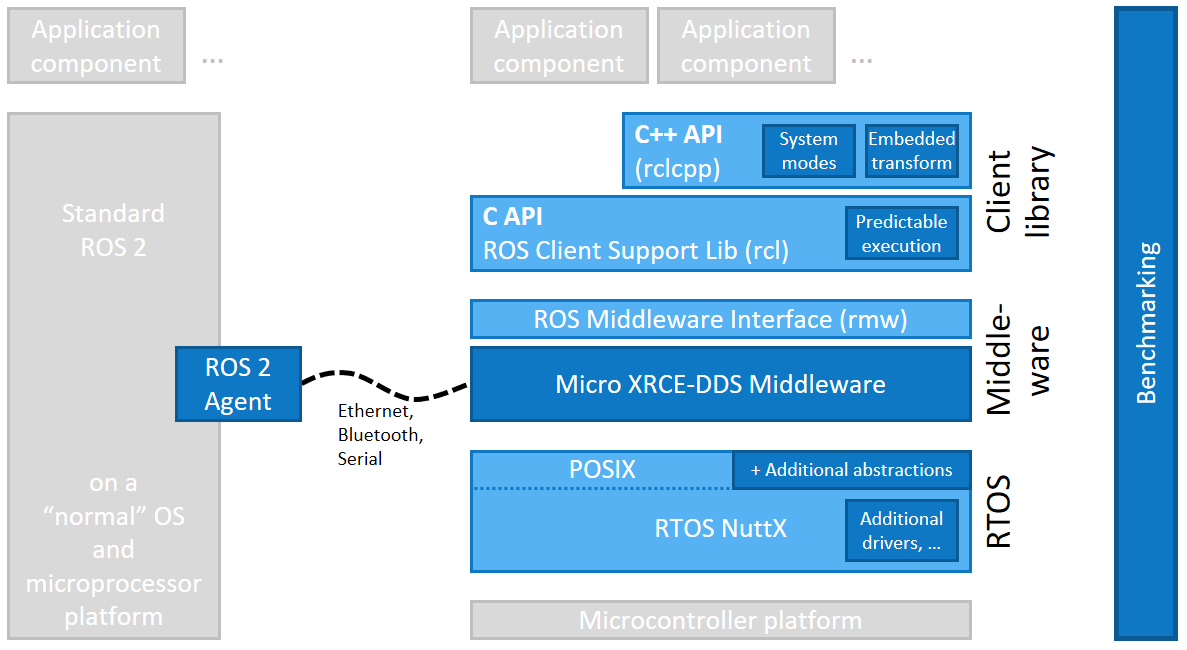
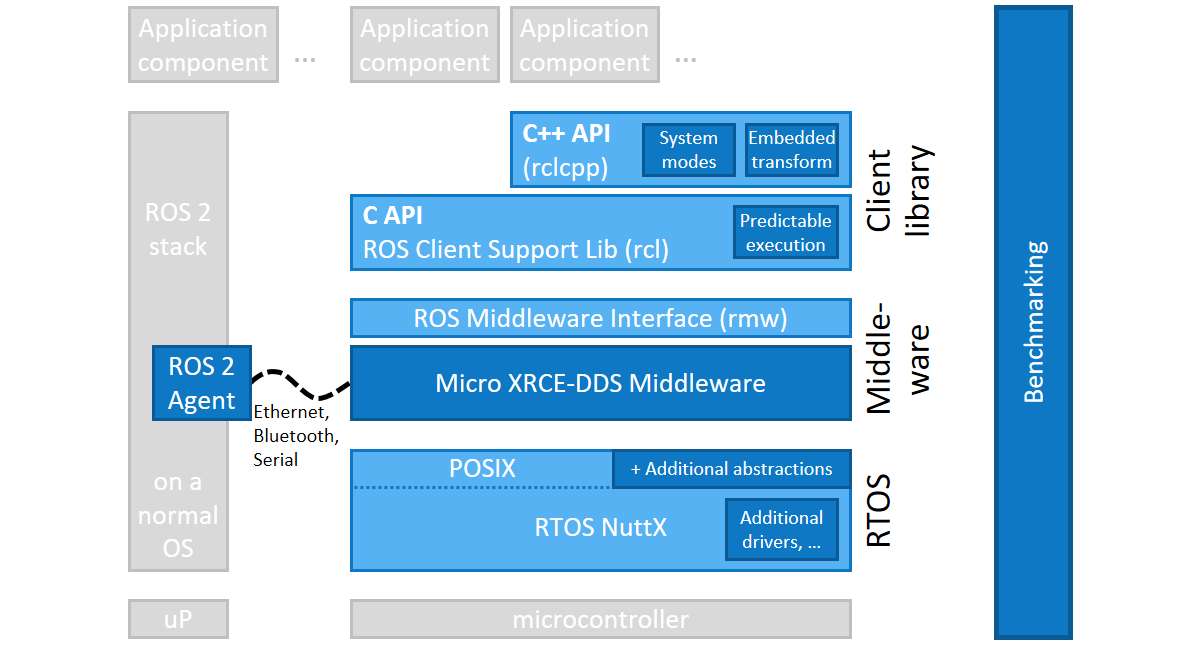
Centered stack in architecture image and improved text.

diff --git a/_docs/overview/index.md b/_docs/overview/index.md
@@ -6,13 +6,17 @@ redirect_from: /docs/
 
 *micro-ROS puts ROS 2 onto microcontrollers, making them first class participants of the ROS 2 environment.*
 
-We're basically following the [ROS 2 architecture](https://index.ros.org/doc/ros2/) and make use of its middleware pluggability to use [DDS-XRCE](https://www.omg.org/spec/DDS-XRCE/), which is suitable for microcontrollers. Moreover, we use an RTOS (NuttX) instead of Linux. We also add an RTOS abstraction layer, to make porting to other RTOS possible.
+We're basically following the [ROS 2 architecture](https://index.ros.org/doc/ros2/) and make use of its middleware pluggability to use [DDS-XRCE](https://www.omg.org/spec/DDS-XRCE/), which is suitable for microcontrollers. Moreover, we use an POSIX-based RTOS (NuttX) instead of Linux. We also add RTOS abstractions, to make porting to other RTOS easier.
 
 ![](/img/micro-ROS_architecture.png)
 
+Dark blue components are developed specifically for micro-ROS. Light blue components are taken from the standard ROS 2 stack. We seek to contribute as much code back to the ROS 2 mainline codebase as possible.
+
 We have also prepared a [comparison](/docs/overview/comparison) to other approaches, to see the important differences quickly.
 
-## Major Source Code Repositories
+## Source Code Repositories
+
+Major repositories in order of the layers are:
 
 * Applications:
   * Kobuki demo: [embedded robot driver](https://github.com/micro-ROS/apps/tree/kobuki_rcl_port/examples/kobuki) and [remote ROS 2 software](https://github.com/micro-ROS/micro-ROS_kobuki_demo)
